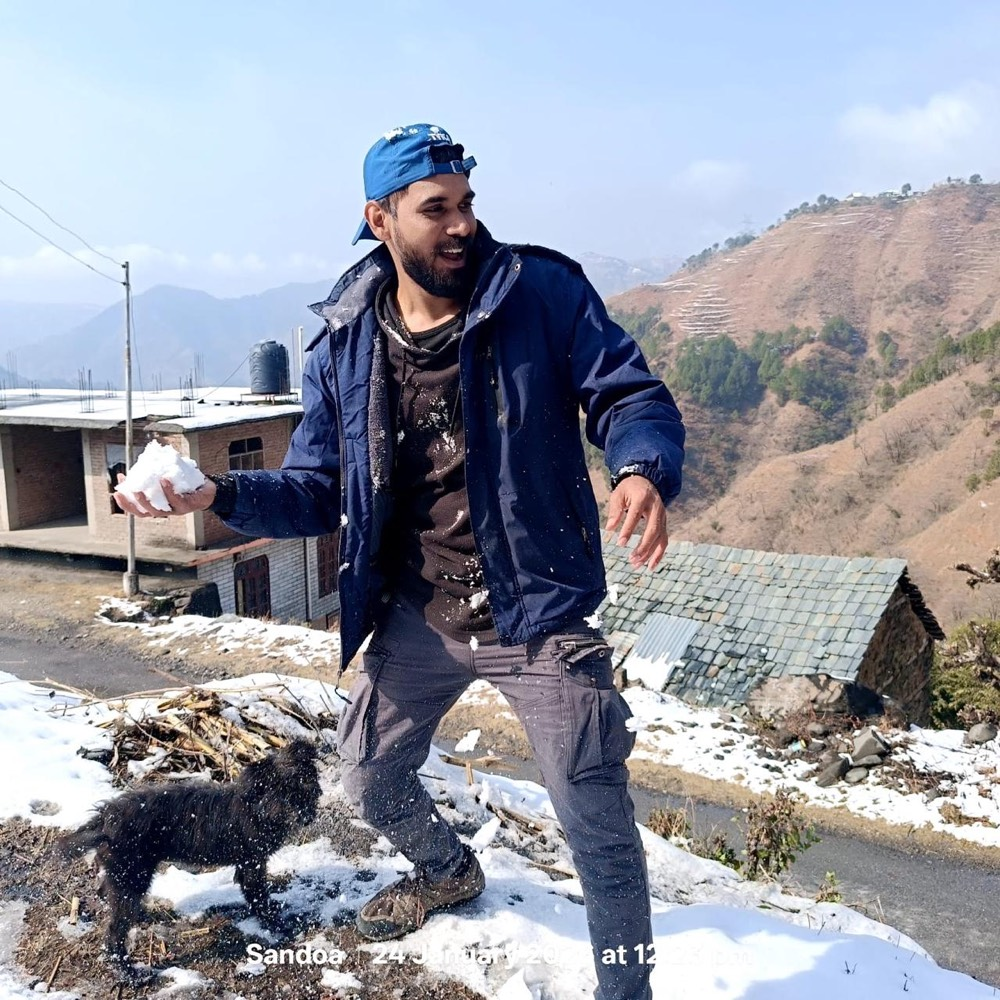
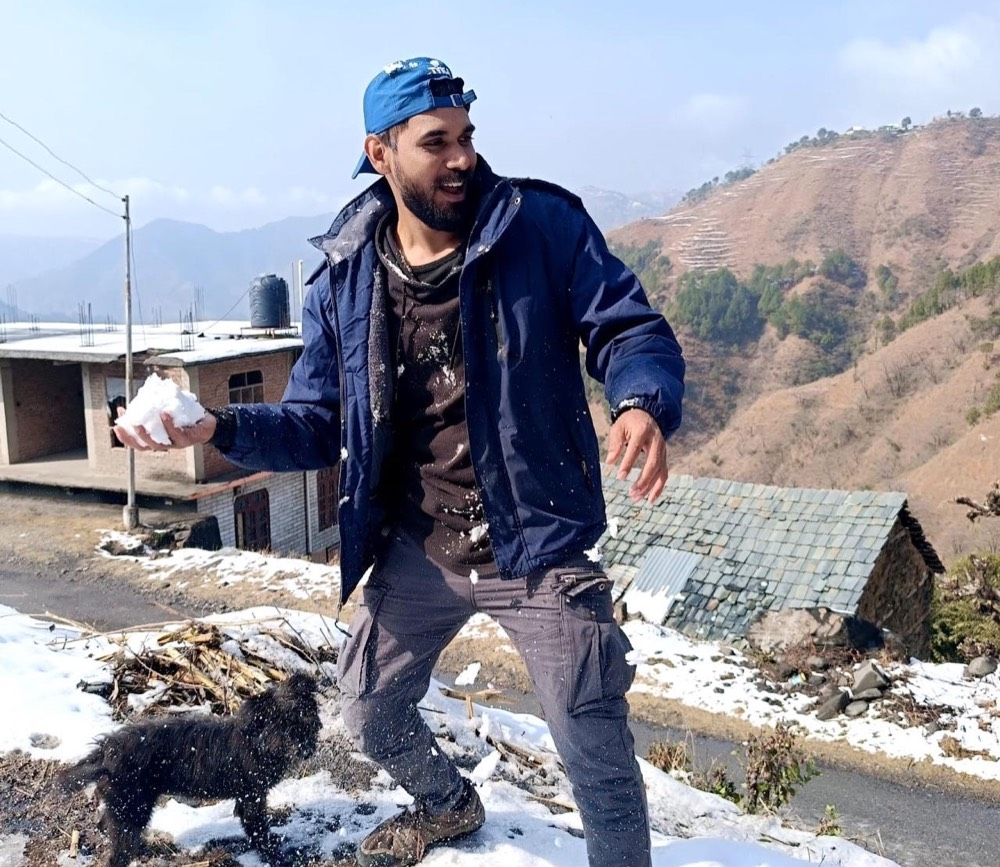
Home: quotes label; gallery as uncropped photo rows

diff --git a/index.html b/index.html
@@ -125,6 +125,7 @@
         </div>
 
         <!-- Quotes from statisticians: one line each, author right after. -->
+        <p class="quotes-label">Statistics in three lines &mdash; models, extremes, and curiosity:</p>
         <ul class="hero-quotes" aria-label="Quotes from statisticians">
           <li>&ldquo;All models are wrong, but some are useful.&rdquo; <span class="quote-by">&mdash; George E. P. Box</span></li>
           <li>&ldquo;It is impossible that the improbable will never happen.&rdquo; <span class="quote-by">&mdash; Emil J. Gumbel</span></li>
@@ -208,37 +209,42 @@
   </section>
 
   <!-- ============================================================
-       MOMENTS — photo collage. Photos live in assets/images/moments/.
-       .tile-wide spans two columns, .tile-tall spans two rows
-       (see components/gallery.css).
+       MOMENTS — photo rows. Photos live in assets/images/moments/
+       (see .photo-rows in components/gallery.css).
        ============================================================ -->
   <section class="block container">
     <div class="block-head">
-      <h2>Beyond the Equations</h2>
+      <h2>Beyond the Equations and Modeling</h2>
       <span class="block-count">moments</span>
     </div>
 
-    <div class="gallery gallery-collage">
-      <figure class="tile-wide">
-        <img src="assets/images/moments/teaching.jpg" alt="Rishikesh giving an invited talk to a full room at IIT Bombay" style="object-position: 50% 55%" loading="lazy">
-        <figcaption>Turning theory into intuition &mdash; one lecture at a time<br><span class="caption-note">during an invited talk at IIT Bombay (thanks to Parthanil Da and Dr. Arpita!)</span></figcaption>
-      </figure>
-      <figure class="tile-tall">
-        <img src="assets/images/moments/himalayan-ride.jpg" alt="Rishikesh on a motorcycle above a green Himalayan river valley" style="object-position: 45% 50%" loading="lazy">
-        <figcaption>Weekend mode: chasing valleys on two wheels</figcaption>
-      </figure>
-      <figure class="tile-tall">
-        <img src="assets/images/moments/campus-cricket.jpg" alt="A cricket match on the IIT Mandi campus ground, with hills behind" style="object-position: 50% 60%" loading="lazy">
-        <figcaption>Campus cricket at IIT Mandi &mdash; the Himalayas as our pavilion</figcaption>
-      </figure>
-      <figure>
-        <img src="assets/images/moments/snow-day.jpg" alt="Rishikesh laughing with a snowball in hand on a snowy Himalayan hillside" style="object-position: 50% 25%" loading="lazy">
-        <figcaption>Snowball fights &gt; p-values (sometimes)</figcaption>
-      </figure>
-      <figure>
-        <img src="assets/images/group/research-group.jpg" alt="Members of the research group around a lunch table" style="object-position: 50% 40%" loading="lazy">
-        <figcaption>Group lunch: where the best ideas begin</figcaption>
-      </figure>
+    <!-- Photos are shown uncropped. Each row's photos share one height:
+         set --ar on each <figure> to the photo's width / height. -->
+    <div class="photo-rows">
+      <div class="photo-row">
+        <figure style="--ar: 1.333">
+          <img src="assets/images/moments/teaching.jpg" alt="Rishikesh giving an invited talk to a full room at IIT Bombay" loading="lazy">
+          <figcaption>Turning theory into intuition &mdash; one lecture at a time<span class="caption-note">during an invited talk at IIT Bombay (thanks to Parthanil Da and Dr. Arpita!)</span></figcaption>
+        </figure>
+        <figure style="--ar: 1.153">
+          <img src="assets/images/moments/snow-day.jpg" alt="Rishikesh laughing with a snowball in hand on a snowy Himalayan hillside" loading="lazy">
+          <figcaption>Snowball fights &gt; p-values (sometimes)</figcaption>
+        </figure>
+      </div>
+      <div class="photo-row">
+        <figure style="--ar: 0.75">
+          <img src="assets/images/moments/himalayan-ride.jpg" alt="Rishikesh on a motorcycle above a green Himalayan river valley" loading="lazy">
+          <figcaption>Weekend mode: chasing valleys on two wheels</figcaption>
+        </figure>
+        <figure style="--ar: 0.75">
+          <img src="assets/images/moments/campus-cricket.jpg" alt="A cricket match on the IIT Mandi campus ground, with hills behind" loading="lazy">
+          <figcaption>Campus cricket at IIT Mandi &mdash; the Himalayas as our pavilion</figcaption>
+        </figure>
+        <figure style="--ar: 0.75">
+          <img src="assets/images/group/research-group.jpg" alt="Members of the research group around a lunch table" loading="lazy">
+          <figcaption>Group lunch: where the best ideas begin</figcaption>
+        </figure>
+      </div>
     </div>
   </section>
 

diff --git a/assets/css/components/gallery.css b/assets/css/components/gallery.css
@@ -46,86 +46,101 @@
 }
 
 
-/* ---- Collage variant -------------------------------------- */
-/* A 4-column collage: portrait photos get tall tiles, landscape
-   photos get wide tiles, and captions sit on the photo.
-     <div class="gallery gallery-collage">
-       <figure class="tile-wide"> ... </figure>   2 columns wide
-       <figure class="tile-tall"> ... </figure>   2 rows tall
-       <figure> ... </figure>                     1 x 1
+/* ---- Photo rows ------------------------------------------- */
+/* Uncropped photos in justified rows: every photo in a row has
+   the same height, and widths follow each photo's shape.
+     <div class="photo-rows">
+       <div class="photo-row">
+         <figure style="--ar: 1.333"> img + figcaption </figure>
+         <figure style="--ar: 0.75"> ... </figure>
+       </div>
      </div>
-   Use style="object-position: X% Y%" on an <img> to choose
-   which part of the photo stays in view.                      */
-.gallery-collage {
-  grid-template-columns: repeat(4, 1fr);
-  grid-auto-rows: 230px;
-  grid-auto-flow: dense;
-  gap: 12px;
+   --ar is the photo's width divided by its height.            */
+.photo-rows {
+  display: grid;
+  gap: 18px;
 }
 
-.gallery-collage figure {
-  position: relative;
-  overflow: hidden;
-  border-radius: var(--radius-lg);
+.photo-row {
+  display: flex;
+  gap: 18px;
+  align-items: flex-start;
+}
+
+.photo-row figure {
+  flex: var(--ar, 1) 1 0;
+  min-width: 0;
+  margin: 0;
+  overflow: hidden;   /* no padding, so every photo in a row is exactly the same height */
+  background: var(--card);
   border: 1px solid var(--rule);
+  border-radius: var(--radius-lg);
+  box-shadow: 0 1px 2px rgba(28, 35, 51, 0.04), 0 6px 18px rgba(28, 35, 51, 0.06);
+  transition: transform 0.25s ease, box-shadow 0.25s ease;
+}
+
+.photo-row figure:hover {
+  transform: translateY(-3px);
+  box-shadow: 0 2px 4px rgba(28, 35, 51, 0.06), 0 12px 28px rgba(28, 35, 51, 0.10);
+}
+
+.photo-row img {
+  display: block;
+  width: 100%;
+  height: auto;
+  aspect-ratio: var(--ar, 1);
   background: var(--rule-soft);
 }
 
-.gallery-collage .tile-wide { grid-column: span 2; }
-.gallery-collage .tile-tall { grid-row: span 2; }
-
-.gallery-collage img {
-  width: 100%;
-  height: 100%;
-  aspect-ratio: auto;
-  border: 0;
-  border-radius: 0;
-  object-fit: cover;
-  transition: transform 0.35s ease;
-}
-
-.gallery-collage figure:hover img {
-  transform: scale(1.04);
-}
-
-/* Caption laid over the bottom of the photo */
-.gallery-collage figcaption {
-  position: absolute;
-  left: 0;
-  right: 0;
-  bottom: 0;
+.photo-row figcaption {
   margin: 0;
-  padding: 28px 14px 12px;
+  padding: 10px 12px 12px;
   font-family: var(--sans);
   font-size: 14px;
-  line-height: 1.35;
-  color: #fff;
-  background: linear-gradient(to top, rgba(10, 14, 24, 0.78), rgba(10, 14, 24, 0));
+  line-height: 1.4;
+  color: var(--ink);
 }
 
-.gallery-collage .caption-note {
+.photo-row .caption-note {
+  display: block;
+  margin-top: 2px;
   font-size: 12.5px;
-  opacity: 0.85;
+  color: var(--ink-faint);
 }
 
+/* Tablets: photos two per row */
 @media (max-width: 720px) {
-  .gallery-collage {
+  .photo-rows,
+  .photo-row {
+    display: contents;
+  }
+  .photo-rows {
+    display: grid;
     grid-template-columns: 1fr 1fr;
-    grid-auto-rows: 190px;
+    gap: 14px;
+  }
+  .photo-row figure {
+    flex: none;
+  }
+  .photo-row img {
+    aspect-ratio: 4 / 5;
+    object-fit: cover;
   }
 }
 
+/* Phones: one photo per row, uncropped */
 @media (max-width: 480px) {
-  .gallery-collage {
+  .photo-rows {
     grid-template-columns: 1fr;
-    grid-auto-rows: 240px;
   }
-  .gallery-collage .tile-wide { grid-column: auto; }
-  .gallery-collage .tile-tall { grid-row: span 1; }
+  .photo-row img {
+    aspect-ratio: var(--ar, 1);
+    object-fit: initial;
+  }
 }
 
 @media (prefers-reduced-motion: reduce) {
-  .gallery-collage img {
+  .photo-row figure {
     transition: none;
   }
 }

diff --git a/assets/css/components/hero.css b/assets/css/components/hero.css
@@ -122,9 +122,18 @@
 }
 
 /* Quotes under the bio: one compact line each, author inline */
+.quotes-label {
+  margin: 18px 0 6px;
+  font-family: var(--mono);
+  font-size: 12px;
+  letter-spacing: 0.04em;
+  text-transform: uppercase;
+  color: var(--pine);
+}
+
 .hero-quotes {
   list-style: none;
-  margin: 18px 0 0;
+  margin: 0;
   padding: 10px 0 0 14px;
   border-left: 3px solid var(--gold);
 }
